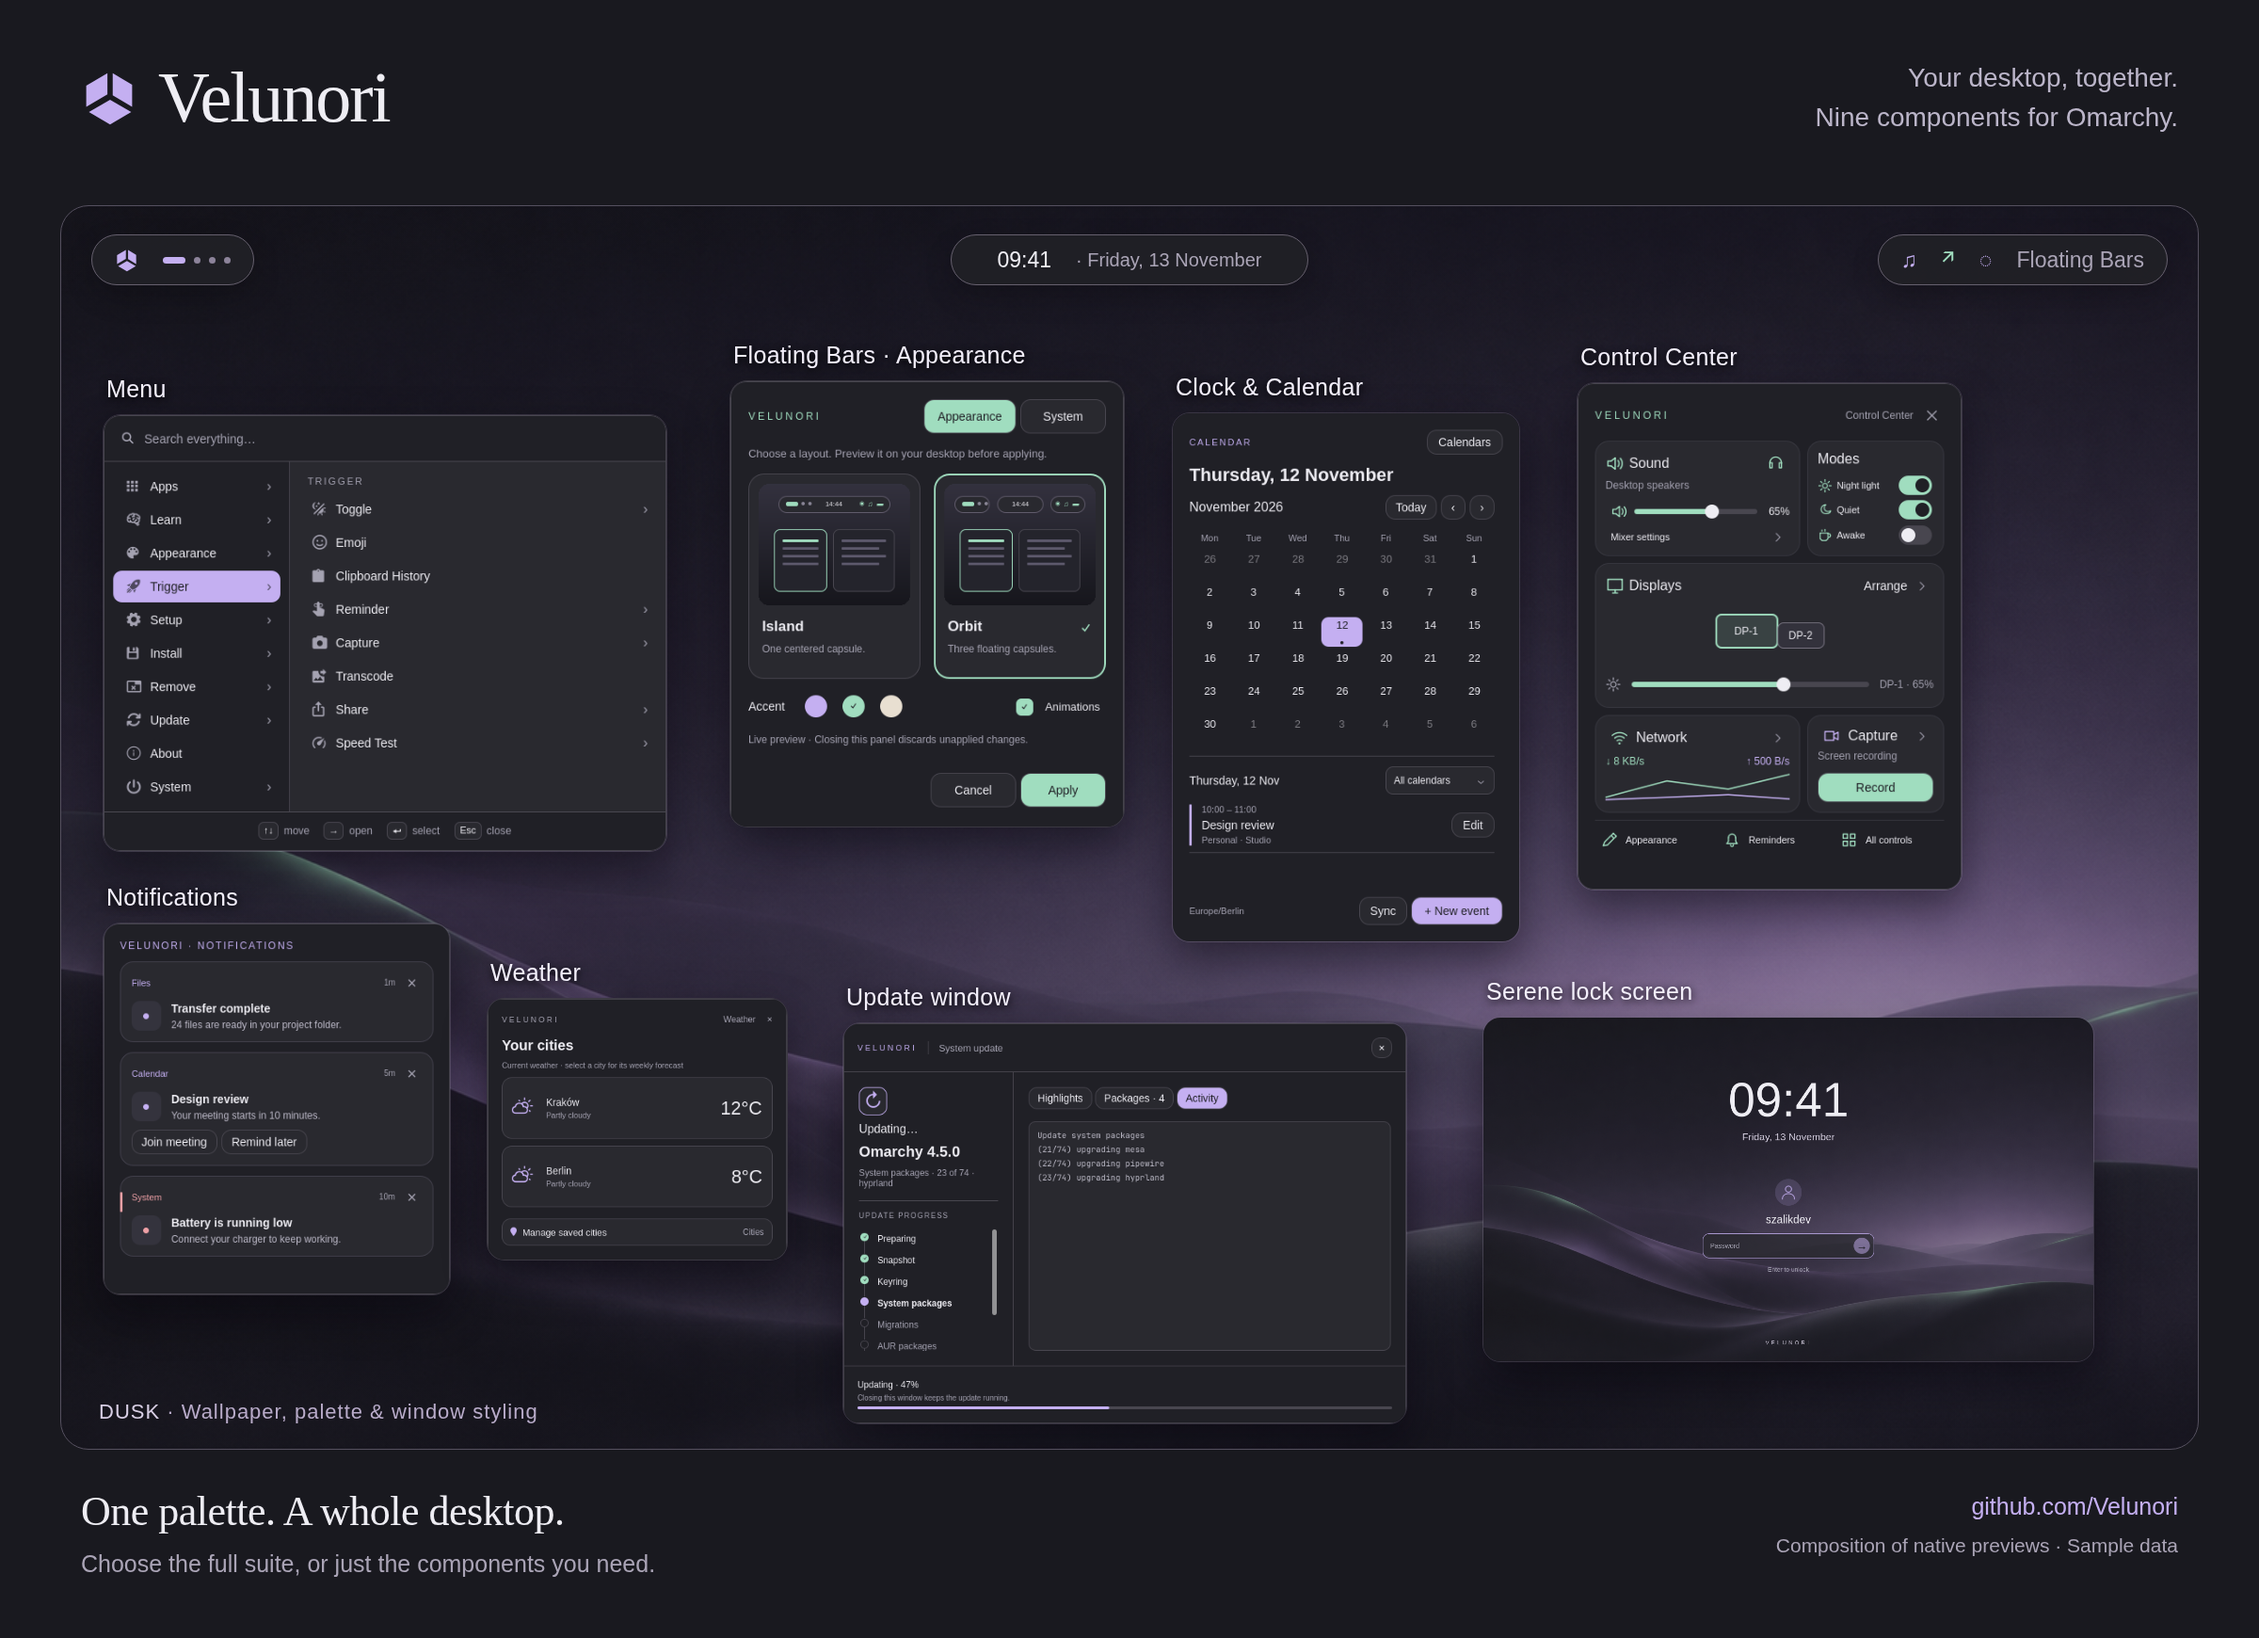
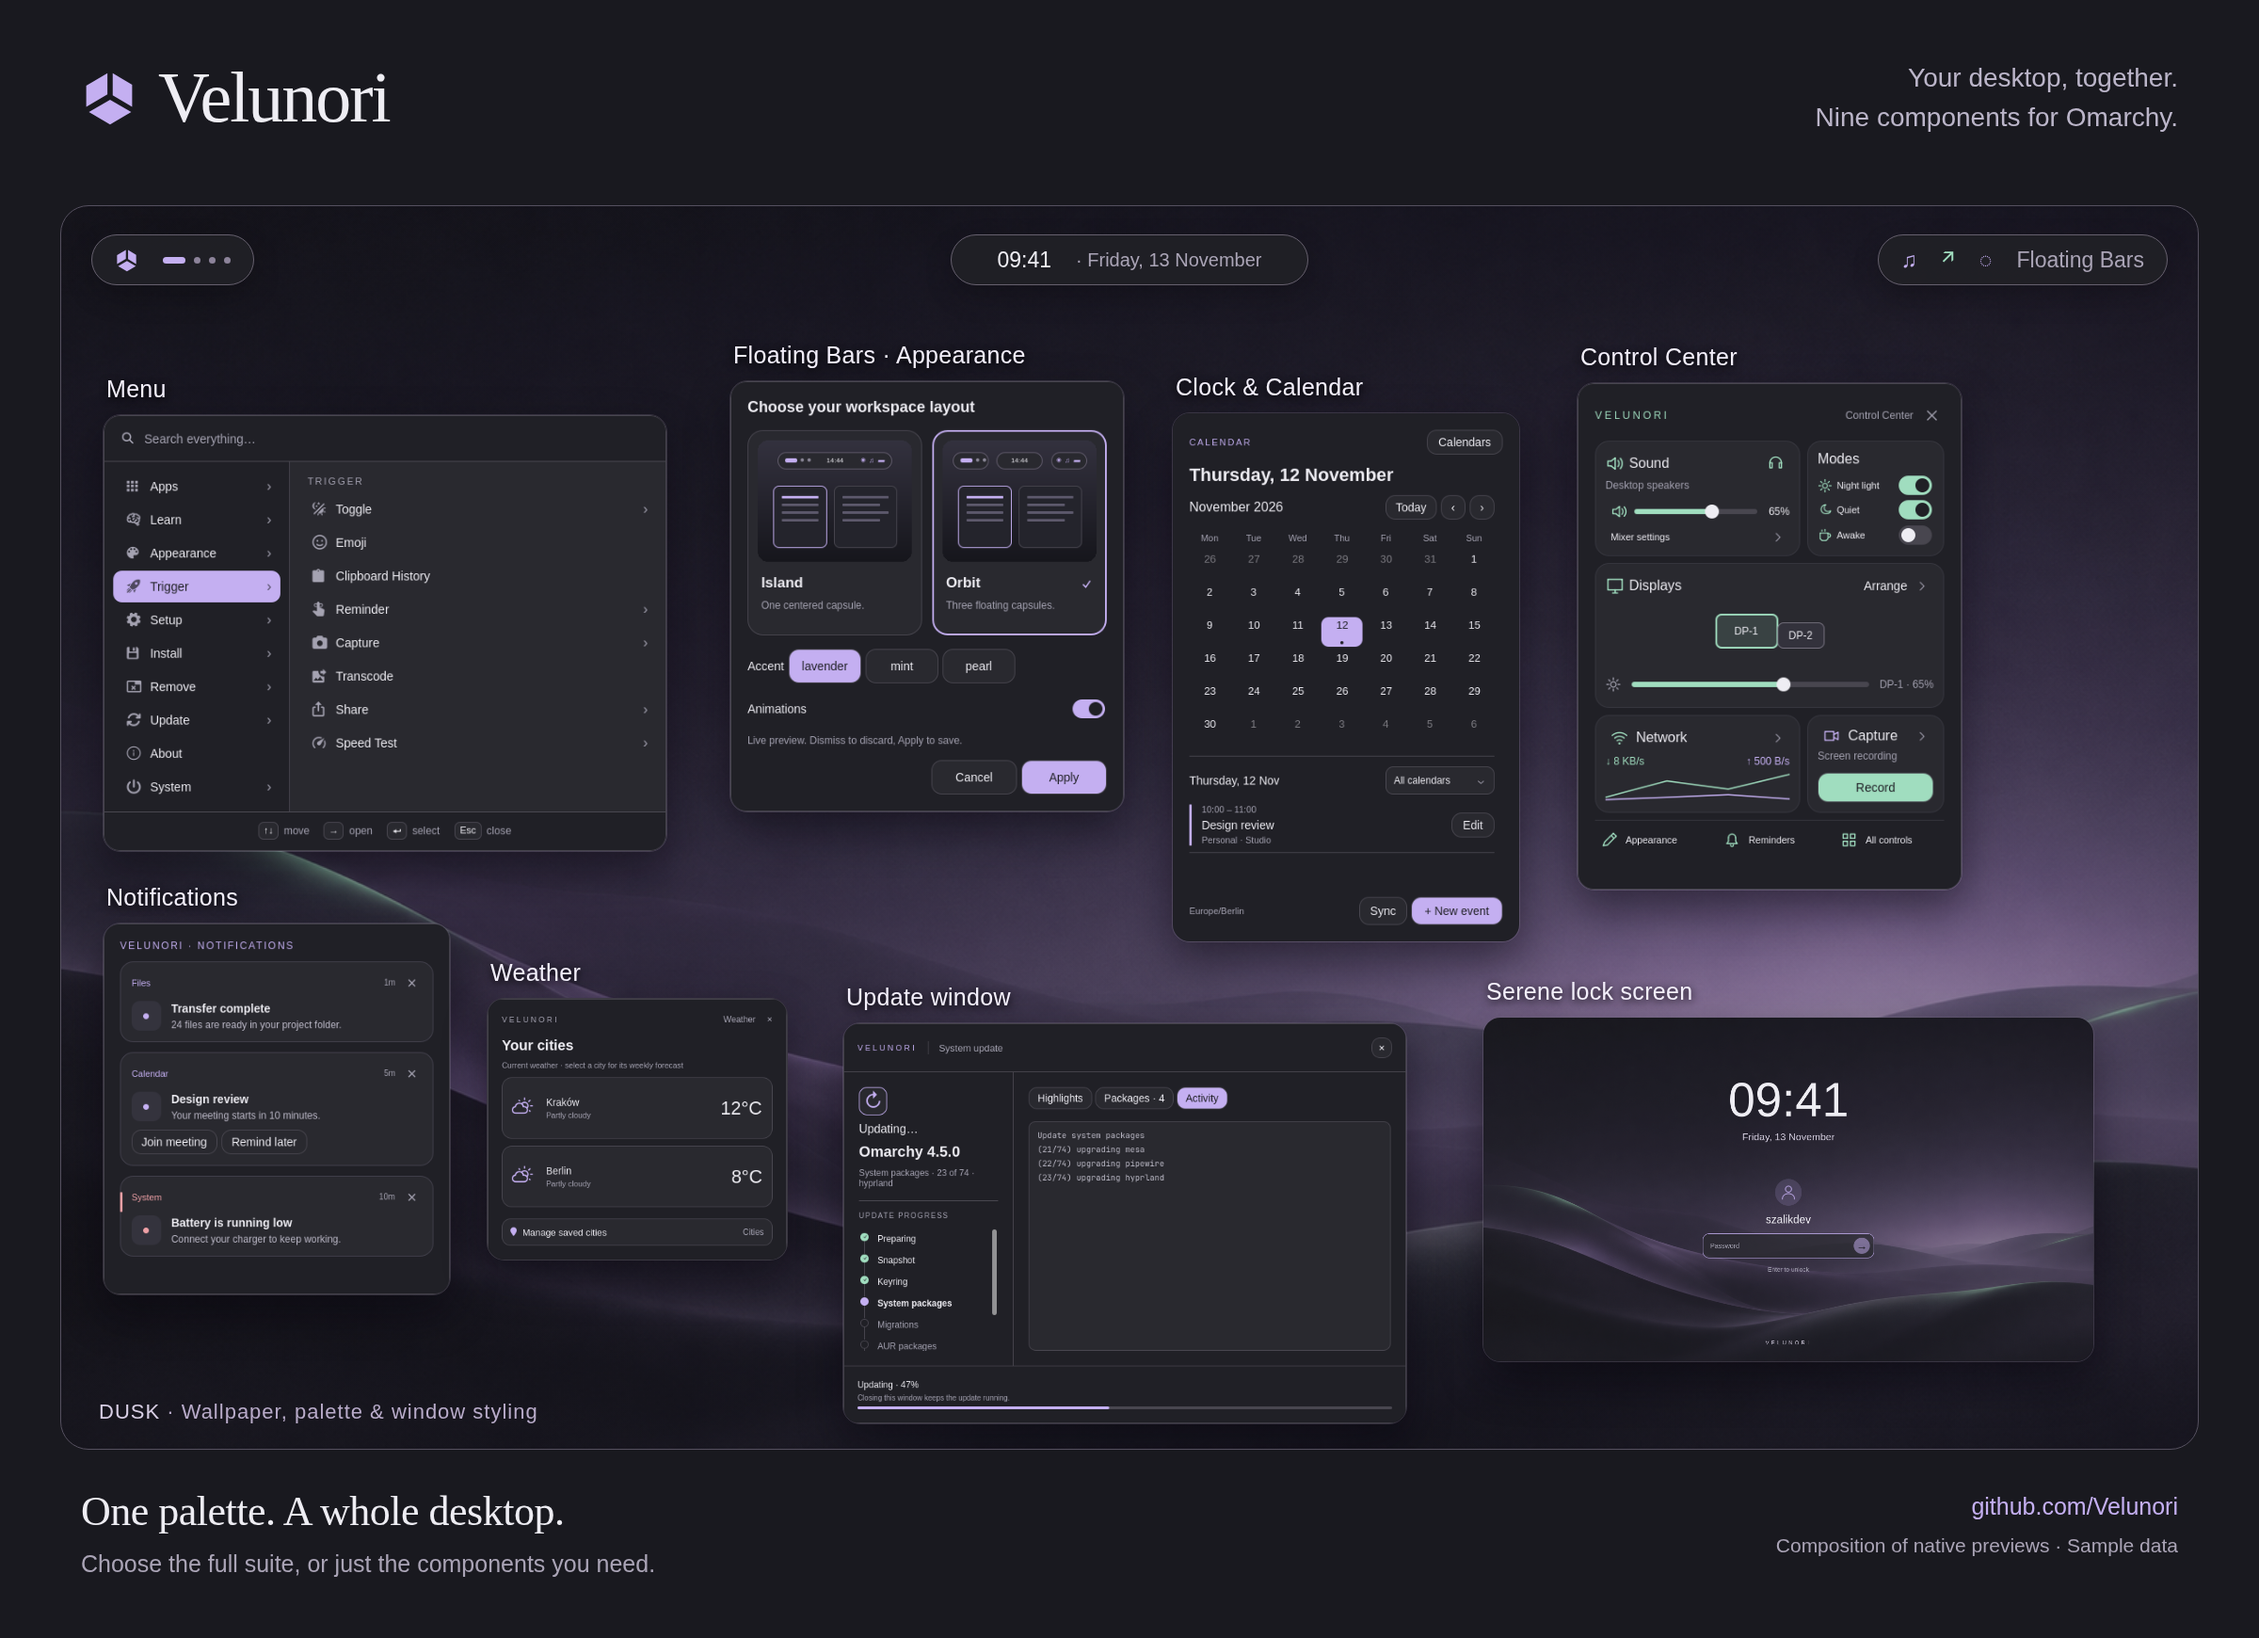
Use the current Appearance editor in the suite image

Changed region(s): [[0.3438, 0.2172, 0.5, 0.4655], [0.4062, 0.4655, 0.5, 0.4966]]

diff --git a/scripts/render-suite.py b/scripts/render-suite.py
@@ -51,7 +51,7 @@ footer{position:absolute;left:86px;right:86px;top:1580px;display:flex;justify-co
 <div class="bar right">♫ <span style="color:#a0ddbf">↗</span> ◌ <span style="color:#aaa4b6">Floating Bars</span></div>
 '''.replace('WALLPAPER',wallpaper).replace('MARK',mark)
 html += shot('menu','Menu',44,180,600)
-html += shot('appearance','Floating Bars · Appearance',710,144,420,crop=520)
+html += shot('appearance','Floating Bars · Appearance',710,144,420)
 html += shot('clock','Clock & Calendar',1180,178,370)
 html += shot('control-center','Control Center',1610,146,410)
 html += shot('notifications','Notifications',44,720,370)
